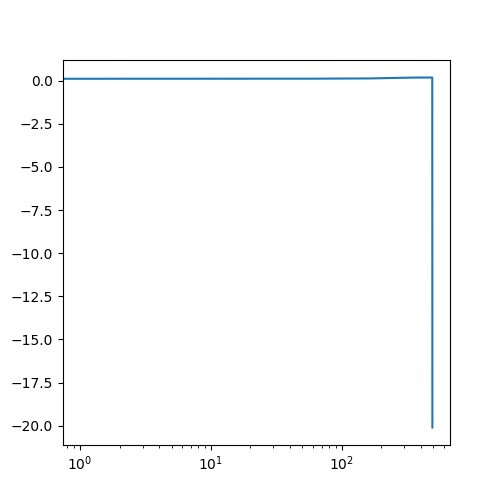
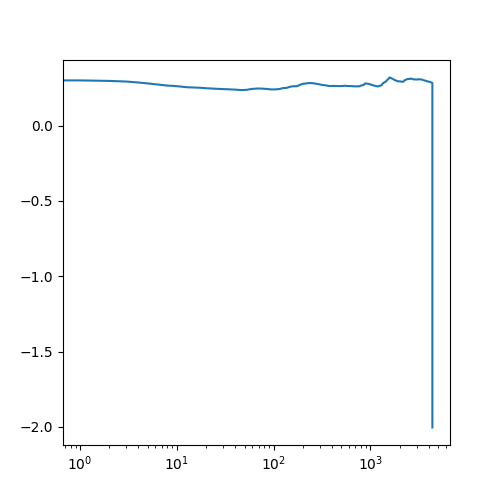
Tested new epsilon decay, added save function every run

diff --git a/main.py b/main.py
@@ -124,7 +124,7 @@ def getData(world):
         # epsilon = 0.9 starting out - then decaying
         # alpha = 0.5 starting out - then decaying
         # epochs = the number of runs so far for that world
-        parameters = np.array([0.95, 0., 0.5, 0])
+        parameters = np.array([0.95, 0.9, 0.5, 0])
     else:
         parameters = np.load(f'{filepath}parameters{world}.npy')
 

diff --git a/model.py b/model.py
@@ -255,7 +255,7 @@ def learn(qTable, world, mode, alpha, gamma, epsilon, goodStates, badStates, tra
 
 
 def epsilonDecay(epsilon, traverse):
-    if traverse < 5 or epsilon > 0.31:
+    if traverse < 5:
         epsilon = epsilon * np.exp(-.1 * traverse)
     else:
         epsilon = epsilon * np.exp(-.01 * traverse)

diff --git a/TestTry.py b/TestTry.py
@@ -86,5 +86,9 @@ def decayEpsilon(epsilon, epoch):
     return epsilon
 
 
-printQTable(1, False)
+#printQTable(1, False)
+epsilon = 0.95
+for i in range(1, 16):
+    epsilon = epsilonDecay(epsilon, i)
+    print(epsilon)
 
